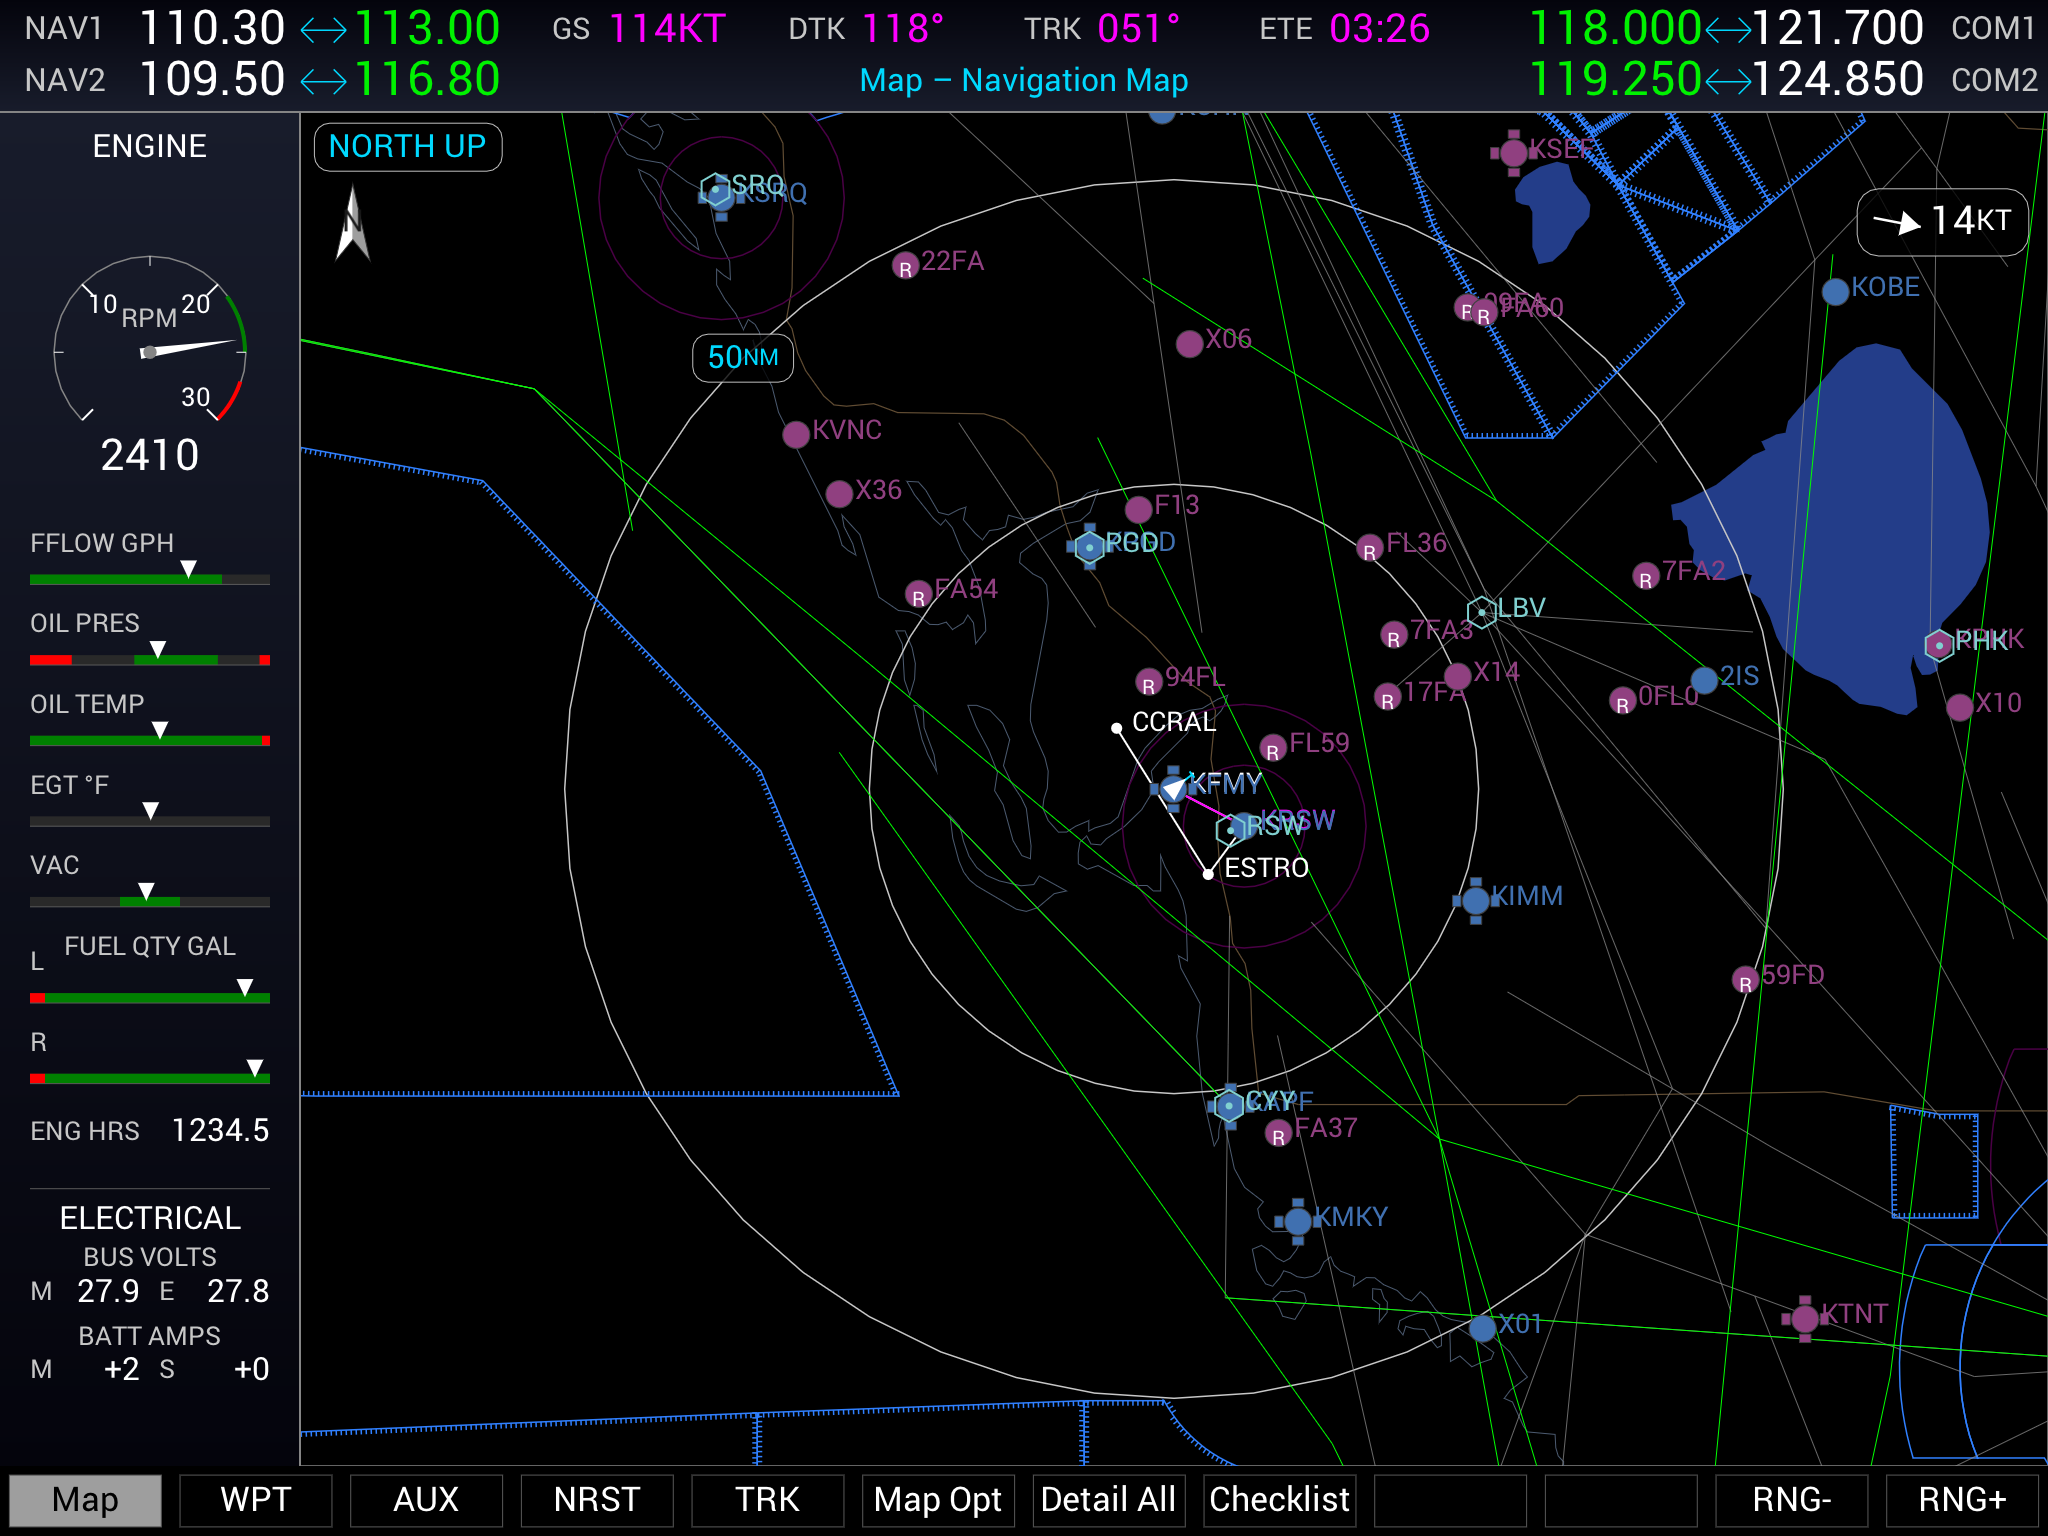
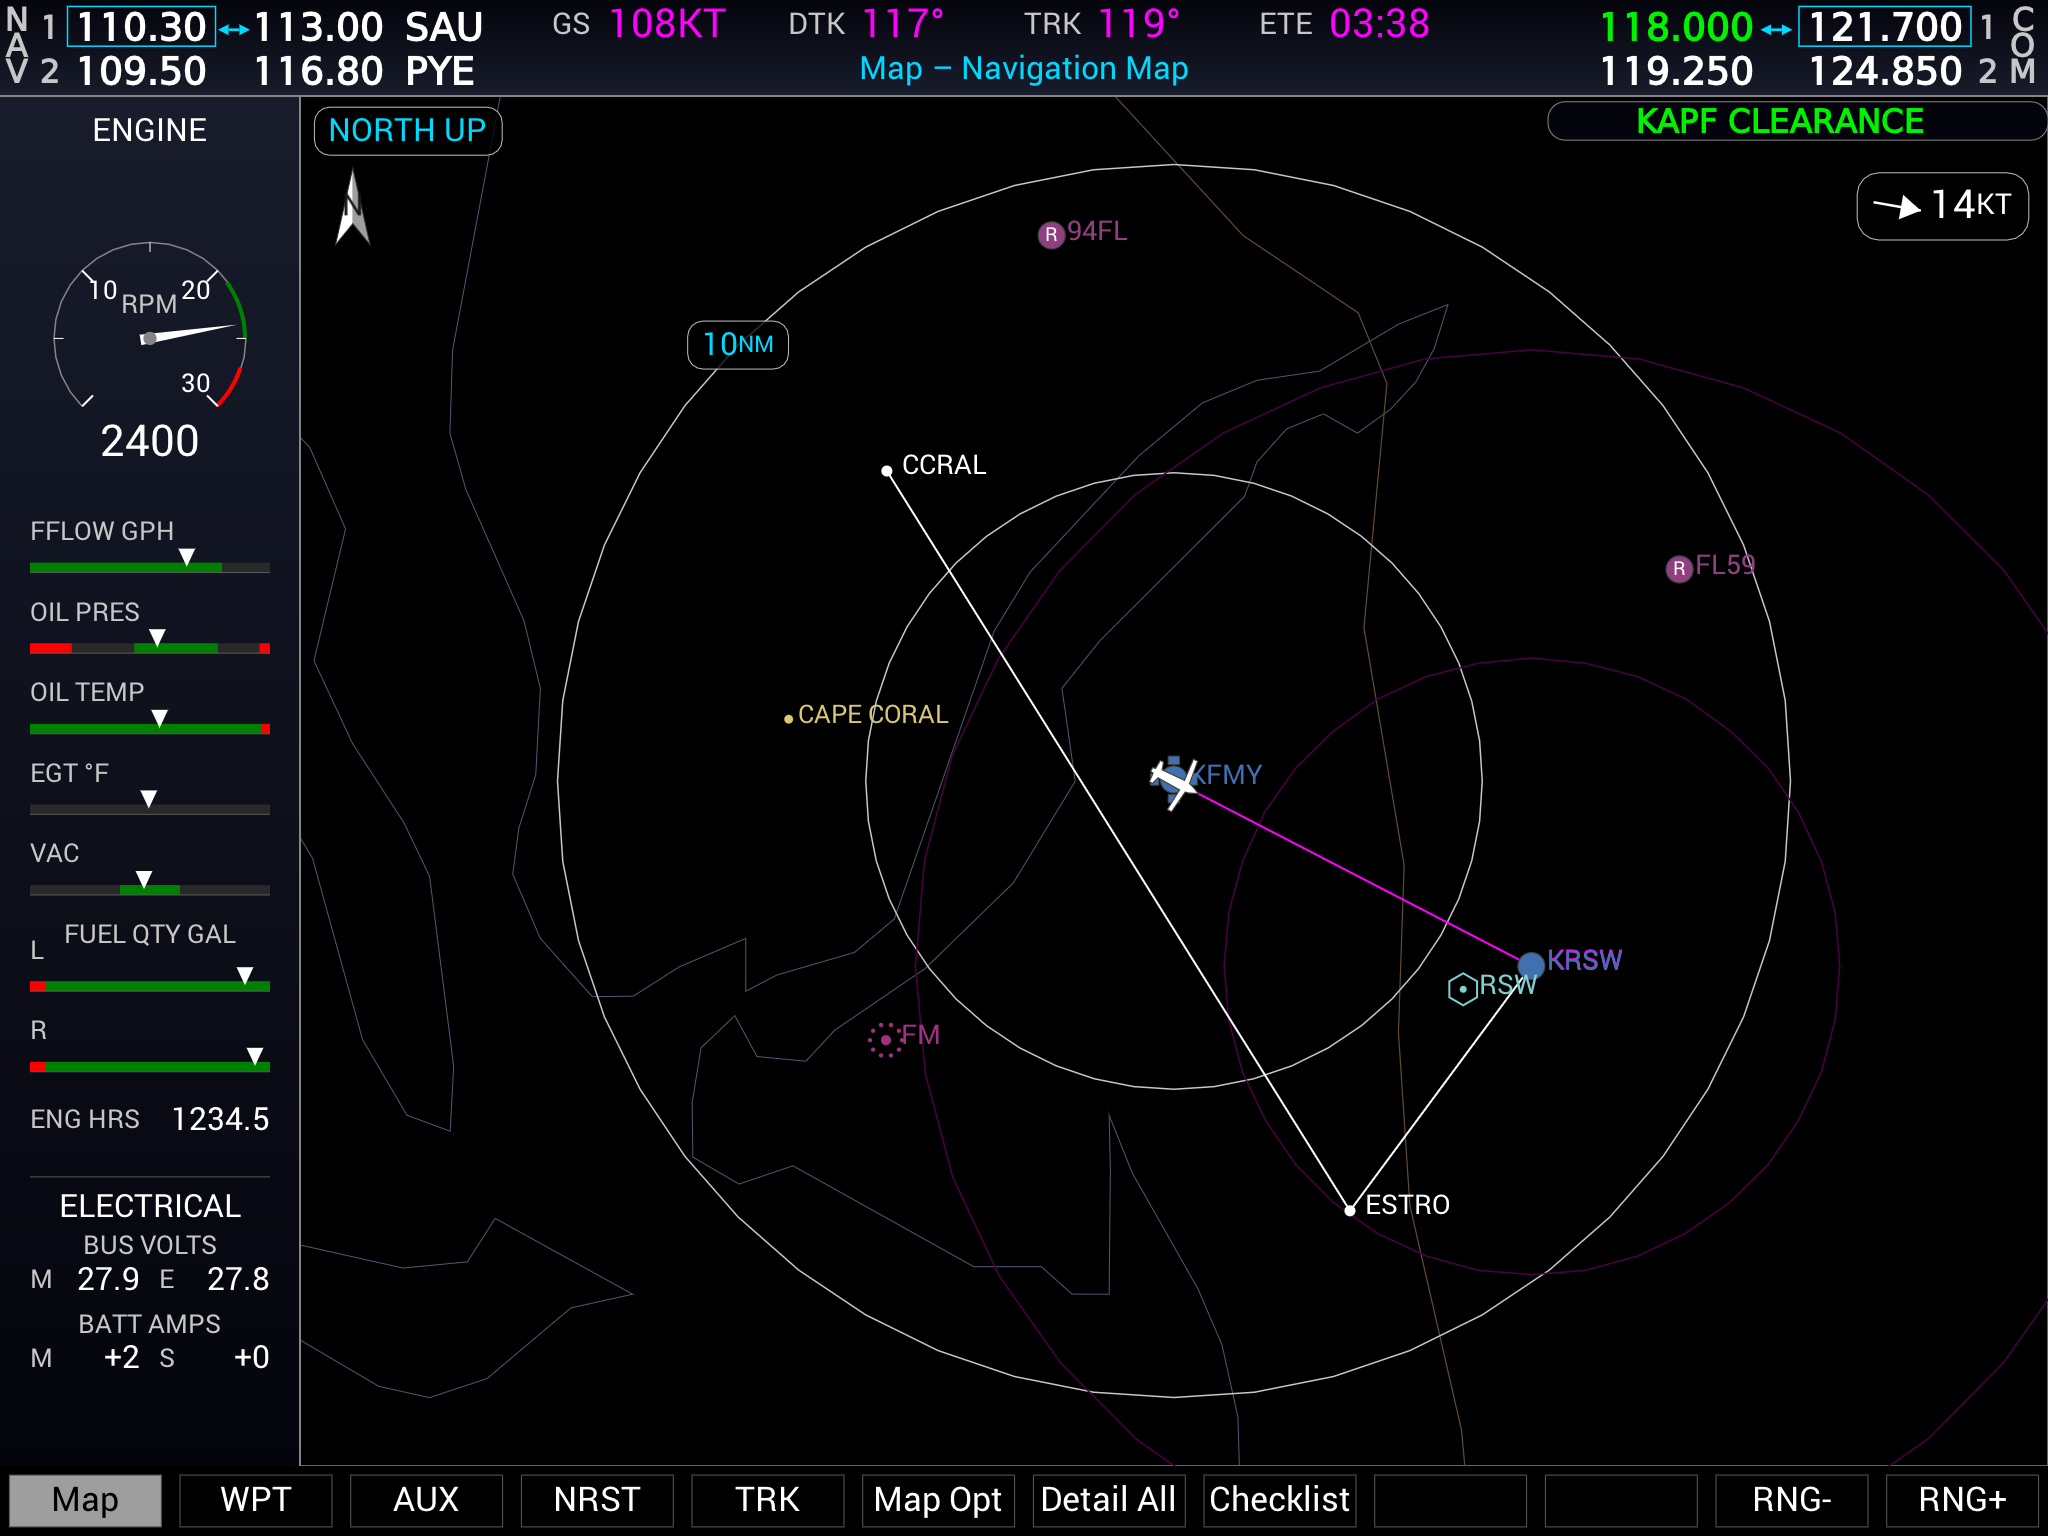
Refine NavCom glyphs, rank COM decode, refresh screenshots
Draw the transfer arrow with solid scalable triangles and fatten the
Direct-To "D"/arrow glyph so the NavCom box reads cleanly at any
resolution. Rank COM frequency decode matches by service type (Tower
first) when multiple airports share a frequency. Regenerate the PFD and
MFD README screenshots to reflect the updated chrome.

diff --git a/avionics-core/src/render/pfd/Chrome.cpp b/avionics-core/src/render/pfd/Chrome.cpp
@@ -29,18 +29,29 @@ Color withAlpha(Color c, float a) {
   return c;
 }
 
-// Bold cyan double-headed transfer arrow (<->): a shaft with an outward-
-// pointing head at each end (G1000 NXi NavCom box).
+// Bold cyan double-headed transfer arrow (<->): a thin shaft with a solid
+// filled triangle at each end (G1000 NXi NavCom box). Filled heads (rather than
+// open chevron strokes) give the clean, symmetric triangles of the real unit.
+// All dimensions scale with the arrow size so it reads correctly at any display
+// resolution.
 void drawTransferCarets(Renderer& r, float cx, float cy, float halfW) {
-  const float stroke = 2.5f;
-  const float head = halfW * 0.6f;
-  const float lx = cx - halfW;
-  const float rx = cx + halfW;
-  r.strokeLine(lx, cy, rx, cy, stroke, colors::kCyan);
-  r.strokeLine(lx, cy, lx + head, cy - head, stroke, colors::kCyan);
-  r.strokeLine(lx, cy, lx + head, cy + head, stroke, colors::kCyan);
-  r.strokeLine(rx, cy, rx - head, cy - head, stroke, colors::kCyan);
-  r.strokeLine(rx, cy, rx - head, cy + head, stroke, colors::kCyan);
+  const float tip = halfW;             // tip distance from the center
+  // Elongated heads (slanted sides longer than the base) with a tall enough
+  // base, leaving a middle shaft between them (the real unit's <-> is not
+  // equilateral).
+  const float headLen = halfW * 0.66f; // triangle length (tip -> base)
+  const float headHalf = halfW * 0.34f; // triangle half-height at its base
+  const float shaftStroke = halfW * 0.17f;
+  const float baseX = tip - headLen;   // half-distance to each triangle base
+  r.strokeLine(cx - baseX, cy, cx + baseX, cy, shaftStroke, colors::kCyan);
+  const Point left[3] = {{cx - tip, cy},
+                         {cx - tip + headLen, cy - headHalf},
+                         {cx - tip + headLen, cy + headHalf}};
+  const Point right[3] = {{cx + tip, cy},
+                          {cx + tip - headLen, cy - headHalf},
+                          {cx + tip - headLen, cy + headHalf}};
+  r.fillPolygon(left, 3, colors::kCyan);
+  r.fillPolygon(right, 3, colors::kCyan);
 }
 
 // COM/NAV band label: letters stacked vertically with 1/2 beside each row (WT
@@ -77,17 +88,26 @@ void drawNavComPanelBg(Renderer& r, float x, float y, float pw, float ph,
 // look of the "D" bezel key. Returns the x just past the glyph.
 float drawDirectToIcon(Renderer& r, float x, float cy, float size,
                        const Color& color) {
-  r.fillText(x, cy, "D", size, TextAlign::Left, color);
+  // The font has no bold weight, so the "D" is over-drawn at a small plus-
+  // shaped halo of offsets to fatten its stroke toward the Garmin glyph.
+  const float bold = std::max(1.0f, size * 0.03f);
+  const float off[5][2] = {{0, 0}, {-bold, 0}, {bold, 0}, {0, -bold}, {0, bold}};
+  for (const auto& o : off) {
+    r.fillText(x + o[0], cy + o[1], "D", size, TextAlign::Left, color);
+  }
+  // Capital text is middle-aligned, so the visual center of the "D" sits a touch
+  // above cy; pierce the arrow through there so it reads as centered on the D.
+  const float ay = cy - size * 0.035f;
   const float dW = r.measureTextWidth("D", size);
   const float shaftL = x + dW * 0.42f;          // pierce through the D's bowl
-  const float shaftR = x + dW + size * 0.34f;   // exit to the right of the D
-  const float head = size * 0.20f;
-  r.strokeLine(shaftL, cy, shaftR, cy, std::max(1.6f, size * 0.08f), color);
-  const Point tri[3] = {{shaftR + head * 0.20f, cy},
-                        {shaftR - head * 0.40f, cy - head},
-                        {shaftR - head * 0.40f, cy + head}};
+  const float shaftR = x + dW + size * 0.26f;   // exit to the right of the D
+  const float head = size * 0.34f;              // chunky arrowhead (the "carrot")
+  r.strokeLine(shaftL, ay, shaftR, ay, std::max(2.5f, size * 0.13f), color);
+  const Point tri[3] = {{shaftR + head * 0.55f, ay},
+                        {shaftR - head * 0.30f, ay - head},
+                        {shaftR - head * 0.30f, ay + head}};
   r.fillPolygon(tri, 3, color);
-  return shaftR + head * 0.5f;
+  return shaftR + head * 0.7f;
 }
 
 // Magenta flight-plan leg arrow between the FROM and TO fields (WT FmaLegIcon).

diff --git a/avionics-core/src/ComDecode.cpp b/avionics-core/src/ComDecode.cpp
@@ -12,8 +12,28 @@ namespace {
 
 struct ComDecodeCandidate {
   float distanceNm = 0.0f;
+  int serviceRank = 99;
   std::string ident;
 };
+
+// Lower rank wins when multiple airports publish the same COM frequency.
+int comDecodeServiceRank(AirportCommService service) {
+  switch (service) {
+    case AirportCommService::Tower:
+      return 0;
+    case AirportCommService::Clearance:
+    case AirportCommService::Ground:
+    case AirportCommService::Departure:
+    case AirportCommService::Approach:
+    case AirportCommService::Atis:
+      return 1;
+    case AirportCommService::Unicom:
+      return 2;
+    case AirportCommService::Other:
+      break;
+  }
+  return 99;
+}
 
 std::string decodeComIdent(float activeMhz, const MapData& map,
                            const NavFeatureSource* navSource) {
@@ -36,6 +56,7 @@ std::string decodeComIdent(float activeMhz, const MapData& map,
       if (service == nullptr) continue;
       ComDecodeCandidate c;
       c.distanceNm = static_cast<float>(distNm);
+      c.serviceRank = comDecodeServiceRank(freq.service);
       c.ident = f.id + " " + service;
       matches.push_back(std::move(c));
     }
@@ -46,6 +67,9 @@ std::string decodeComIdent(float activeMhz, const MapData& map,
   const auto best = std::min_element(
       matches.begin(), matches.end(),
       [](const ComDecodeCandidate& a, const ComDecodeCandidate& b) {
+        if (a.serviceRank != b.serviceRank) {
+          return a.serviceRank < b.serviceRank;
+        }
         return a.distanceNm < b.distanceNm;
       });
   return best->ident;
